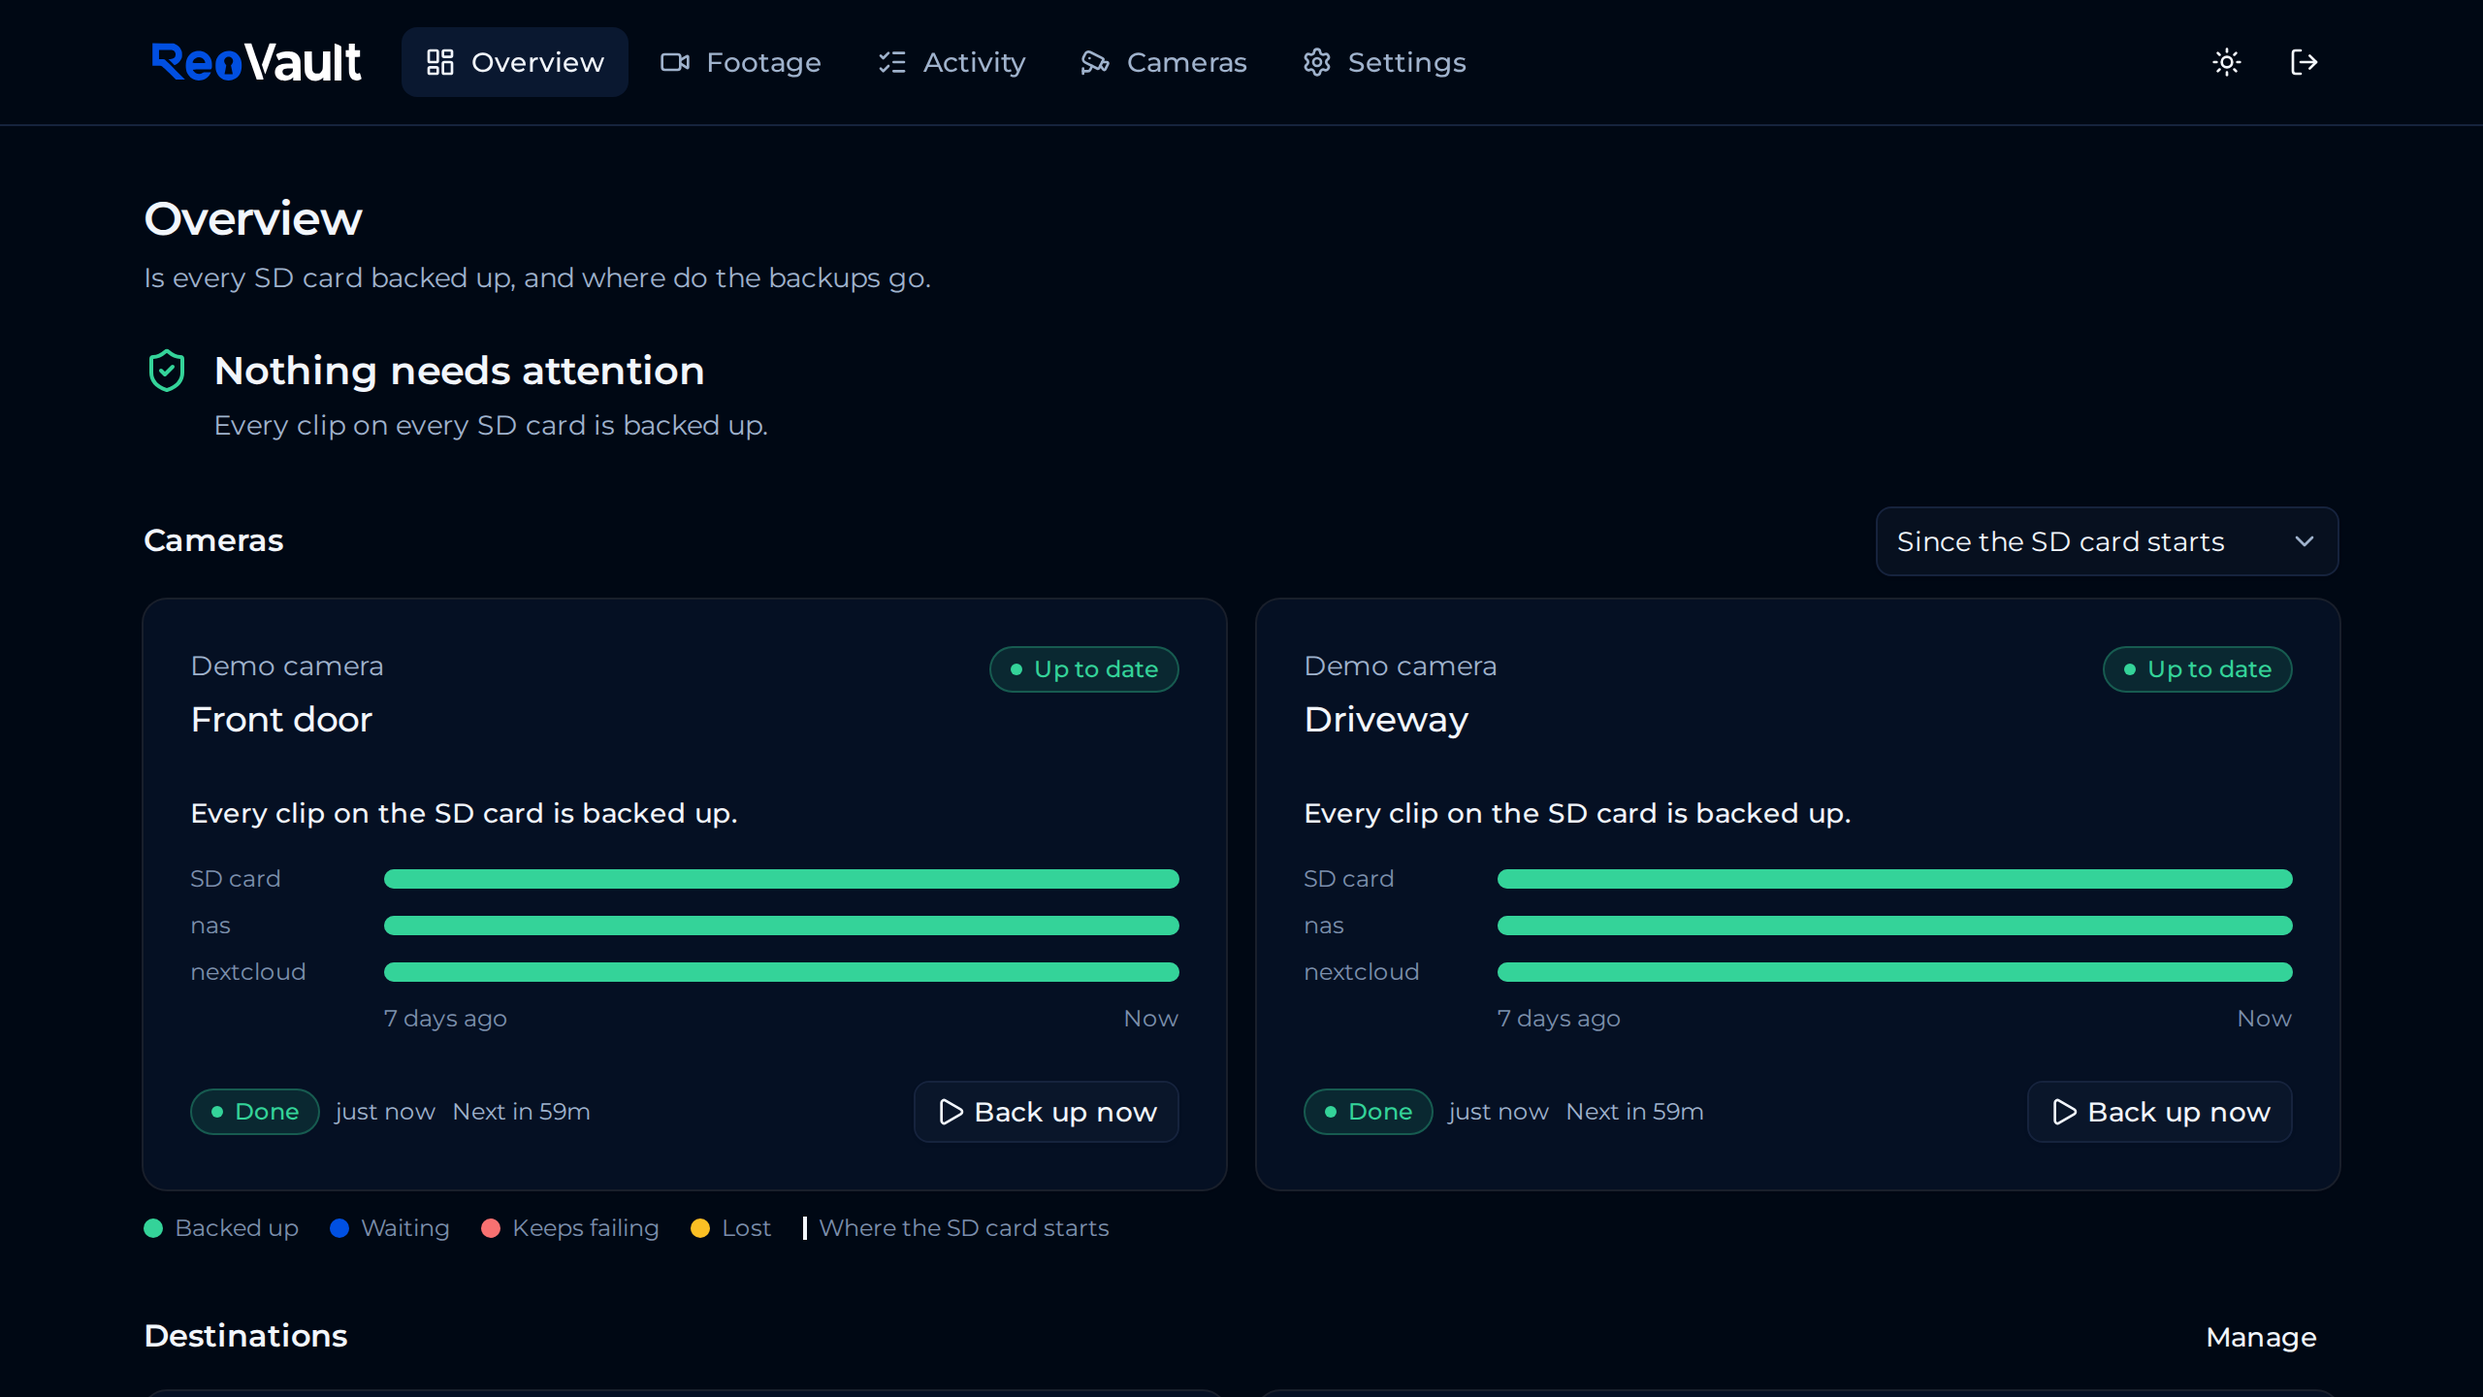
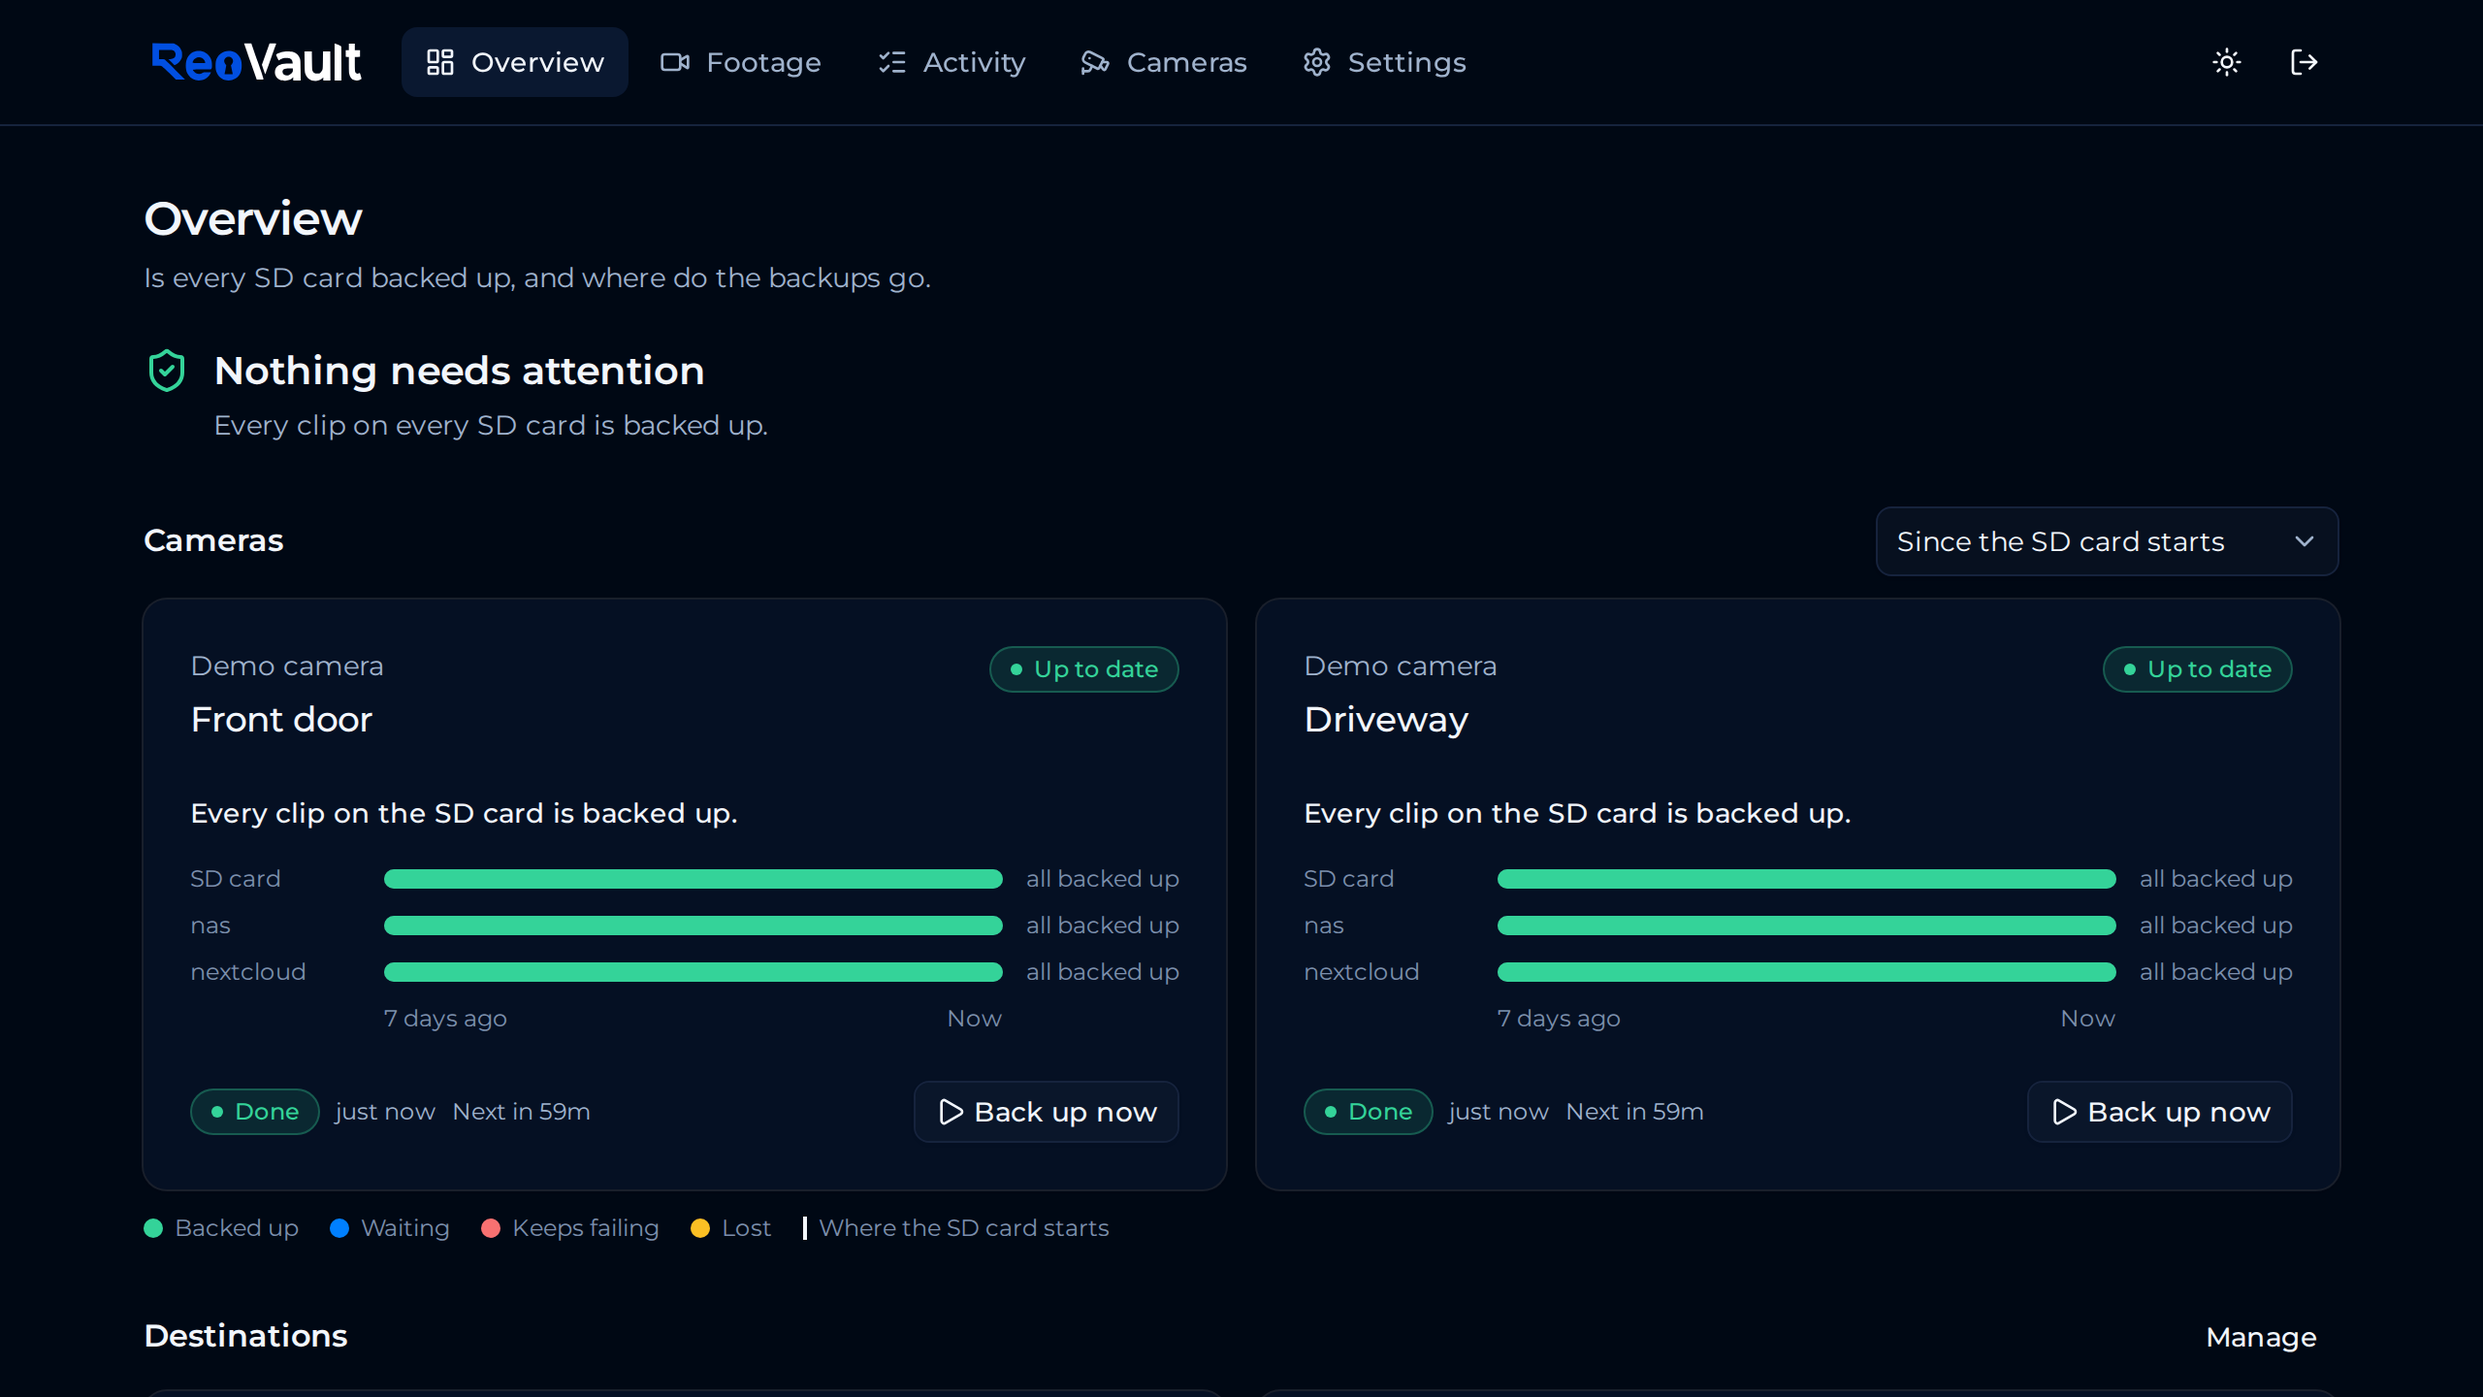
Coverage overview, device-only Cameras tab, release prep for 2.0.0
- Overview: each camera shows where its footage is (SD card, primary,
  each copy) on one time axis, from the card's window back to everything
  kept, with a per-row summary and a span picker.
- Cameras: the device only (model, firmware, SD card usage), read live.
- Camera entries rebuild on change (no restart for a new password or
  address); where the card starts survives restarts.
- Audit fixes: waiting colour contrast, visible focus everywhere, larger
  phone buttons, reduced motion keeps fades, smaller icon.
- Release: version 2.0.0, uv 0.13 and rclone 1.76.0 in the image, reviewed
  Grype exceptions for restic 0.19.1's Go findings.
- Docs, README and screenshots match the code.

Changed region(s): [[0.8438, 0.625, 0.9375, 0.7188], [0.4062, 0.625, 0.4688, 0.7188], [0.375, 0.7188, 0.4062, 0.75]]

diff --git a/dashboard/src/lib/components/overview/CoverageRows.svelte b/dashboard/src/lib/components/overview/CoverageRows.svelte
@@ -4,13 +4,17 @@
 
 	/** Where a camera's footage of the chosen span is, one row per place: the
 	 * SD card, the primary, each copy. Same time axis for every row, oldest on
-	 * the left; hovering a stretch says what it holds. */
+	 * the left. Colour is never the only signal: each row also says in words
+	 * what needs attention, and hovering a stretch gives its times. */
 	let { coverage }: { coverage: Coverage } = $props();
 
-	type State = Coverage['rows'][number]['runs'][number]['state'];
+	type Row = Coverage['rows'][number];
+	type Run = Row['runs'][number];
+	type State = Run['state'];
+	// --brand-text, not --brand, for waiting: --brand is under 3:1 on the dark card.
 	const FILL: Record<State, string> = {
 		safe: 'fill-ok',
-		waiting: 'fill-brand',
+		waiting: 'fill-brand-text',
 		failing: 'fill-bad',
 		lost: 'fill-warn',
 		none: 'fill-transparent'
@@ -28,11 +32,25 @@
 	const when = (ms: number) =>
 		new Date(ms).toLocaleString('en-GB', { weekday: 'short', day: 'numeric', month: 'short', hour: '2-digit', minute: '2-digit' });
 
-	function title(run: Coverage['rows'][number]['runs'][number], kind: string): string {
+	function title(run: Run, kind: string): string {
 		const span = `${when(start + run.start * step)} to ${when(start + (run.start + run.length) * step)}`;
 		if (run.state === 'none') return `${span}: ${kind === 'card' ? 'not on the card' : 'not here'}`;
 		return `${span}: ${run.clips} ${run.clips === 1 ? 'clip' : 'clips'} ${WORDS[run.state]}`;
 	}
+
+	const TONE = { failing: 'text-bad', lost: 'text-warn', waiting: 'text-brand-text' } as const;
+
+	/** The row in a few words, each part in its own colour: what needs
+	 * attention first, else that everything is held. */
+	function summary(row: Row): { text: string; tone: string }[] {
+		const total = (s: State) => row.runs.filter((r) => r.state === s).reduce((n, r) => n + r.clips, 0);
+		const parts = (['failing', 'lost', 'waiting'] as const)
+			.filter((s) => total(s))
+			.map((s) => ({ text: `${total(s)} ${s === 'failing' ? 'failing' : WORDS[s]}`, tone: TONE[s] }));
+		if (parts.length) return parts;
+		return [{ text: total('safe') ? 'all backed up' : 'nothing yet', tone: 'text-subtle' }];
+	}
+
 	// The left end of the axis, in words: "12 days ago", or a date further back.
 	const ago = $derived.by(() => {
 		const days = (Date.parse(coverage.end) - start) / 86400000;
@@ -42,12 +60,13 @@
 	});
 </script>
 
-<div class="grid grid-cols-[minmax(0,5.5rem)_1fr] items-center gap-x-3 gap-y-2">
+<div class="grid grid-cols-[minmax(0,5.5rem)_1fr_auto] items-center gap-x-3 gap-y-2">
 	{#each coverage.rows as row (row.kind + row.name)}
+		{@const s = summary(row)}
 		<span class="text-subtle truncate text-xs" title={row.name}>{row.name}</span>
 		<Meter
 			class="h-2.5"
-			label="{row.name}, footage since {ago}"
+			label="{row.name}, since {ago}: {s.map((p) => p.text).join(', ')}"
 			marker={row.marker}
 			segments={row.runs.map((r) => ({
 				value: (r.length / coverage.buckets) * 100,
@@ -55,10 +74,14 @@
 				title: title(r, row.kind)
 			}))}
 		/>
+		<span class="max-w-36 truncate text-right text-xs tabular-nums" aria-hidden="true">
+			{#each s as part, i (part.text)}{#if i}<span class="text-subtle">,</span>{' '}{/if}<span class={part.tone}>{part.text}</span>{/each}
+		</span>
 	{/each}
 	<span></span>
 	<div class="text-subtle flex justify-between text-xs">
 		<span>{ago}</span>
 		<span>Now</span>
 	</div>
+	<span></span>
 </div>

diff --git a/dashboard/src/routes/layout.css b/dashboard/src/routes/layout.css
@@ -202,6 +202,14 @@
 	* {
 		@apply border-border outline-ring/50;
 	}
+	/* A visible keyboard focus on everything the generated components don't
+	   style themselves (plain links, nav items, raw form fields). Components
+	   that draw their own ring set `outline-none`, a utility, which wins over
+	   this base-layer rule. --ring is --brand-text: 5:1 on dark surfaces. */
+	:focus-visible {
+		outline: 2px solid var(--color-ring);
+		outline-offset: 2px;
+	}
 	body {
 		@apply bg-background text-foreground font-sans antialiased;
 	}
@@ -234,12 +242,23 @@
 	[data-disabled]:not([data-disabled='false']) {
 		cursor: not-allowed;
 	}
+	/* Reduced motion keeps the fades (they still say "this appeared") and drops
+	   the movement: dialogs and sheets stop sliding and zooming, and nothing
+	   rotates or moves on a transition. */
 	@media (prefers-reduced-motion: reduce) {
 		*,
 		*::before,
 		*::after {
-			animation-duration: 0.01ms !important;
-			transition-duration: 0.01ms !important;
+			--tw-enter-translate-x: 0 !important;
+			--tw-enter-translate-y: 0 !important;
+			--tw-exit-translate-x: 0 !important;
+			--tw-exit-translate-y: 0 !important;
+			--tw-enter-scale: 1 !important;
+			--tw-exit-scale: 1 !important;
+			--tw-enter-rotate: 0 !important;
+			--tw-exit-rotate: 0 !important;
+			transition-property: color, background-color, border-color, opacity, box-shadow !important;
+			scroll-behavior: auto !important;
 		}
 	}
 }

diff --git a/dashboard/src/lib/components/cameras/DeviceDetails.svelte b/dashboard/src/lib/components/cameras/DeviceDetails.svelte
@@ -9,6 +9,12 @@
 	let { camera }: { camera: Camera } = $props();
 
 	const device = query(() => api<Device>(`/cameras/${camera.id}/device`));
+	// A camera that doesn't answer can take up to a minute to time out: say so.
+	let slow = $state(false);
+	$effect(() => {
+		const t = setTimeout(() => (slow = true), 2000);
+		return () => clearTimeout(t);
+	});
 	const card = $derived(device.data?.card);
 	const usedGb = $derived(card?.total_gb != null && card.free_gb != null ? card.total_gb - card.free_gb : null);
 	const usedPct = $derived(card?.total_gb && usedGb != null ? (usedGb / card.total_gb) * 100 : null);
@@ -18,7 +24,10 @@
 </script>
 
 {#if !device.data}
-	<div class="flex flex-col gap-2"><Skeleton class="h-4 w-2/3" /><Skeleton class="h-4 w-1/2" /><Skeleton class="h-2 w-full" /></div>
+	<div class="flex flex-col gap-2" aria-busy="true">
+		<Skeleton class="h-4 w-2/3" /><Skeleton class="h-4 w-1/2" /><Skeleton class="h-2 w-full" />
+		{#if slow}<p class="text-muted-foreground text-xs" role="status">Asking the camera, this can take a minute when it's slow to answer.</p>{/if}
+	</div>
 {:else}
 	{@const d = device.data}
 	<dl class="grid grid-cols-2 gap-x-4 gap-y-3 text-sm">

diff --git a/dashboard/src/lib/components/ui/button/button.svelte b/dashboard/src/lib/components/ui/button/button.svelte
@@ -17,7 +17,7 @@
 			size: {
 				default: "h-9 gap-1.5 px-2.5 in-data-[slot=button-group]:rounded-md has-data-[icon=inline-end]:pr-2 has-data-[icon=inline-start]:pl-2",
 				xs: "h-6 gap-1 rounded-[min(var(--radius-md),8px)] px-2 text-xs in-data-[slot=button-group]:rounded-md has-data-[icon=inline-end]:pr-1.5 has-data-[icon=inline-start]:pl-1.5 [&_svg:not([class*='size-'])]:size-3",
-				sm: "h-8 gap-1 rounded-[min(var(--radius-md),10px)] px-2.5 in-data-[slot=button-group]:rounded-md has-data-[icon=inline-end]:pr-1.5 has-data-[icon=inline-start]:pl-1.5",
+				sm: "h-8 max-md:h-10 gap-1 rounded-[min(var(--radius-md),10px)] px-2.5 in-data-[slot=button-group]:rounded-md has-data-[icon=inline-end]:pr-1.5 has-data-[icon=inline-start]:pl-1.5",
 				lg: "h-10 gap-1.5 px-2.5 has-data-[icon=inline-end]:pr-2 has-data-[icon=inline-start]:pl-2",
 				icon: "size-9",
 				"icon-xs": "size-6 rounded-[min(var(--radius-md),8px)] in-data-[slot=button-group]:rounded-md [&_svg:not([class*='size-'])]:size-3",

diff --git a/dashboard/src/lib/components/settings/DestinationsForm.svelte b/dashboard/src/lib/components/settings/DestinationsForm.svelte
@@ -191,7 +191,7 @@
 				{#if kindInfo.paste}
 					<Field.Field>
 						<Field.Label for="d-section">rclone section</Field.Label>
-						<textarea id="d-section" class="border-input bg-background min-h-28 rounded-md border p-2 font-mono text-xs" required bind:value={values.section}></textarea>
+						<textarea id="d-section" class="border-input dark:bg-input/30 focus-visible:border-ring focus-visible:ring-ring/50 min-h-28 rounded-md border bg-transparent p-2 font-mono text-xs outline-none focus-visible:ring-3" required bind:value={values.section}></textarea>
 					</Field.Field>
 				{:else}
 					{#each kindInfo.fields as f (f.key)}

diff --git a/dashboard/src/lib/components/overview/DestinationCard.svelte b/dashboard/src/lib/components/overview/DestinationCard.svelte
@@ -42,7 +42,7 @@
 					<span>About {bytes(d.used_bytes)} of {d.max_gb} GB</span>
 					<span class="tabular-nums">{Math.round(pct)}%</span>
 				</div>
-				<Meter label="{Math.round(pct)}% of the size limit used" segments={[{ value: pct, class: pct > 90 ? 'fill-warn' : 'fill-brand' }]} />
+				<Meter label="{Math.round(pct)}% of the size limit used" segments={[{ value: pct, class: pct > 90 ? 'fill-warn' : 'fill-brand-text' }]} />
 			</div>
 		{/if}
 		{#if d.error}<p class="text-bad text-xs break-words">{d.error}</p>{/if}

diff --git a/dashboard/src/routes/+page.svelte b/dashboard/src/routes/+page.svelte
@@ -54,7 +54,7 @@
 
 	const LEGEND = [
 		{ label: 'Backed up', class: 'fill-ok' },
-		{ label: 'Waiting', class: 'fill-brand' },
+		{ label: 'Waiting', class: 'fill-brand-text' },
 		{ label: 'Keeps failing', class: 'fill-bad' },
 		{ label: 'Lost', class: 'fill-warn' }
 	];

diff --git a/scripts/build_brand_assets.py b/scripts/build_brand_assets.py
@@ -11,7 +11,8 @@ Writes into `dashboard/static/icons/`:
   the light theme) with the empty margin of the 400x200 artboard cropped off
   (at the navbar's 28px height the uncropped art renders as a smear). Same
   paths, only the viewBox changes.
-* `icon.svg`: the icon, as it is.
+* `icon.svg`: the icon, without Inkscape's hidden reference bitmap (an
+  embedded `<image>` that never shows, two thirds of the file).
 * PNGs for what can't take an SVG (home-screen icons, the PWA manifest),
   rendered from the icon SVG by Chromium: `icon-192.png`, `icon-512.png`,
   `apple-touch-icon-180.png` and `icon-maskable-512.png` (the last two on the
@@ -93,7 +94,7 @@ def main() -> None:
             dest.write_text(_crop(src.read_text(), box))
             print(f"{src.relative_to(_ROOT)} -> {dest.relative_to(_ROOT)}")
 
-        icon = (_IMG / "reovault-icon.svg").read_bytes()
+        icon = re.sub(rb"<image\b.*?/>", b"", (_IMG / "reovault-icon.svg").read_bytes(), flags=re.S)
         (_OUT / "icon.svg").write_bytes(icon)
         print("img/reovault-icon.svg -> dashboard/static/icons/icon.svg")
         # (file, size, background, share of the canvas the icon fills)

diff --git a/tests/e2e/test_smoke.py b/tests/e2e/test_smoke.py
@@ -118,14 +118,10 @@ def test_the_overview_coverage_range_and_the_camera_device_details(browser: Brow
     problems = _watch(page)
     _login(page, demo)
     page.goto(f"{demo.url}/")
-    expect(
-        page.get_by_role("img", name=re.compile("^SD card, footage since")).first
-    ).to_be_visible()
+    expect(page.get_by_role("img", name=re.compile("^SD card, since")).first).to_be_visible()
     page.get_by_label("How far back").select_option("all")
     page.wait_for_url("**/?span=all")
-    expect(
-        page.get_by_role("img", name=re.compile("^nextcloud, footage since")).first
-    ).to_be_visible()
+    expect(page.get_by_role("img", name=re.compile("^nextcloud, since")).first).to_be_visible()
     page.goto(f"{demo.url}/cameras")
     expect(page.get_by_text("Demo camera", exact=True).first).to_be_visible()  # the model
     expect(page.get_by_text(re.compile(r"of 64 GB used")).first).to_be_visible()

diff --git a/reovault/config.py b/reovault/config.py
@@ -133,7 +133,7 @@ class ToolsConfig(BaseModel):
     restic: str = "restic"
     restic_version: str = "0.19.1"
     rclone: str = "rclone"
-    rclone_version: str = "1.75.2"
+    rclone_version: str = "1.76.0"
     # reolink-cli needs its gateway for search, storage and download.
     gateway_addr: str = "127.0.0.1:9210"
 

diff --git a/docs/dashboard.md b/docs/dashboard.md
@@ -37,7 +37,9 @@ everything ReoVault has kept:
 * **Each copy destination**: the same, where blue also means footage the primary
   has that this copy wants but hasn't copied yet.
 
-Hover a stretch for its times and how many clips it holds. The footer has the
+Next to each row a few words say what needs attention, each in its own
+colour ("3 lost, 6615 waiting"), or "all backed up"; screen readers get the
+same text. Hover a stretch for its times and how many clips it holds. The footer has the
 last and next backup, with **Back up now** and **Stop**. Last come the
 destinations: role, size against its limit, and whether a copy is still
 seeding.
